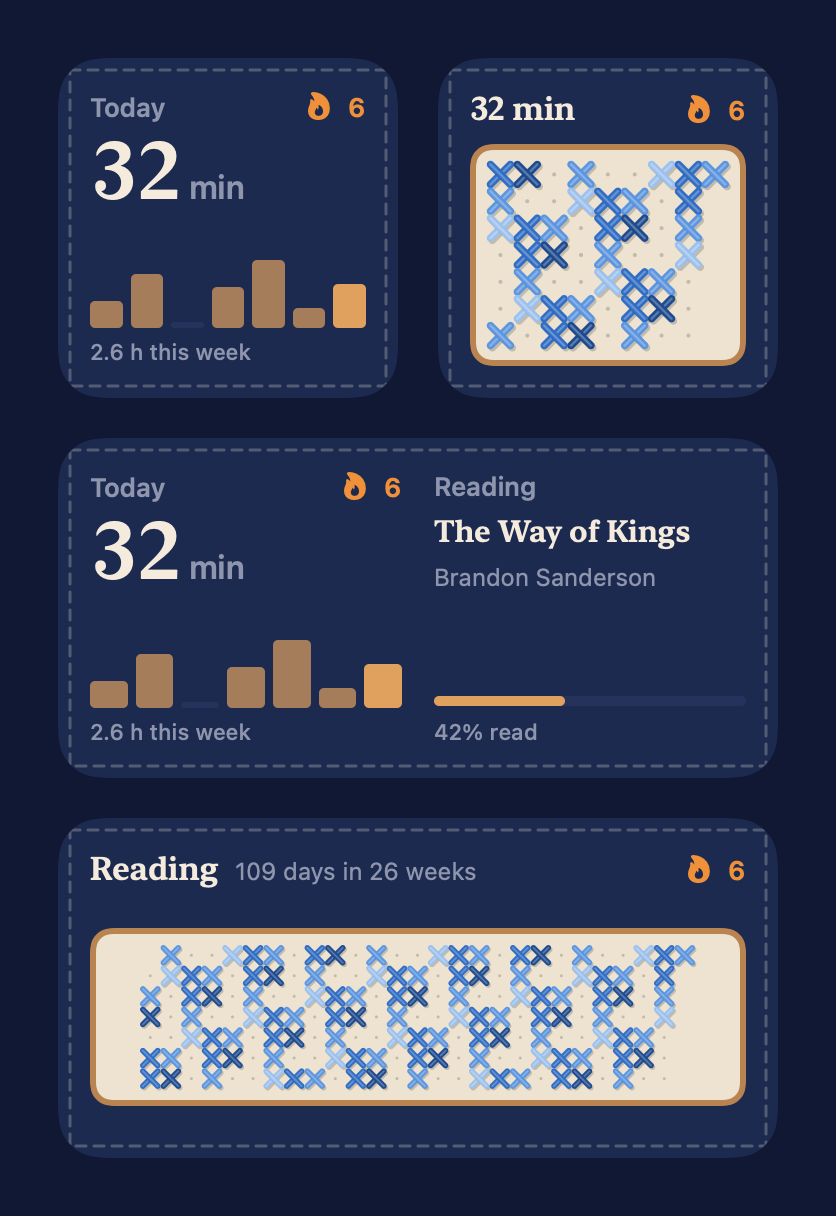
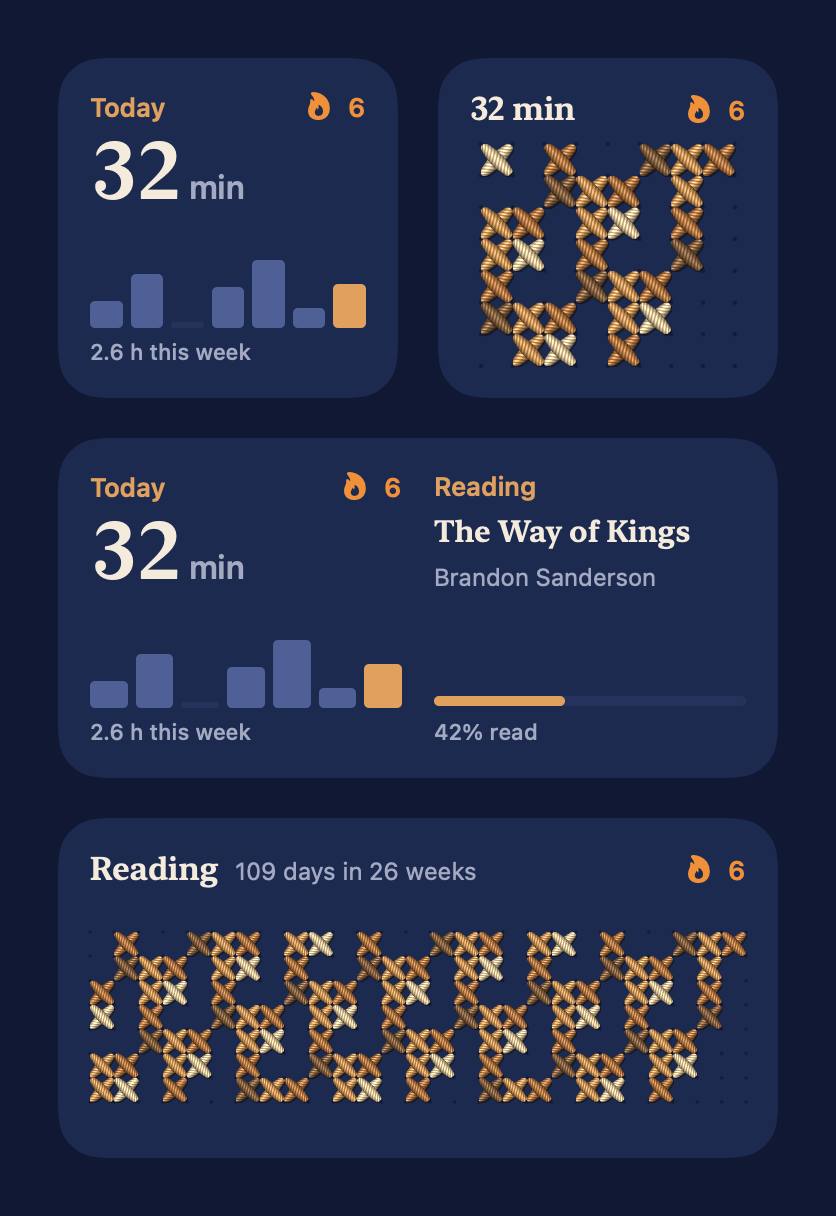
Widgets: real thread stitches on the cloth, less chrome
The calendar is now drawn with stitch images rendered by the landing page's
shader (one per reading level, tan to cream), stitched straight onto the night
blue cloth with the aida holes showing. The wooden frame, linen panel and
dashed border are gone, labels are tan, and earlier days' bars are a lighter
night blue instead of muddy tan.

diff --git a/ios/Widget/HeatmapWidget.swift b/ios/Widget/HeatmapWidget.swift
@@ -1,7 +1,7 @@
 import SwiftUI
 import WidgetKit
 
-/// Daily reading as cross stitch on linen: one column per week, Monday at the top.
+/// Daily reading as cross stitch: one column per week, Monday at the top.
 
 private func level(_ seconds: Int) -> Int {
     switch seconds {
@@ -24,24 +24,14 @@ private func weeks(_ days: [Int], ending today: Date = .now) -> [[Int?]] {
     return stride(from: 0, to: cells.count, by: 7).map { Array(cells[$0..<$0 + 7]) }
 }
 
-/// The calendar on a piece of linen in a thin wooden frame.
-struct Sampler: View {
-    let days: [Int]
-    var allWeeks = false
+/// Stitches rendered by the landing page's shader (Assets: Stitch1...4), one per reading level.
+/// Each image is the stitch plus a margin for its shadow, a sixth of the cell on every side.
+func stitchImage(_ level: Int) -> Image { Image("Stitch\(level)") }
+private let stitchMargin: CGFloat = 16.0 / 96.0
 
-    var body: some View {
-        HeatGrid(days: days, gap: 1, allWeeks: allWeeks)
-            .frame(maxWidth: .infinity)
-            .padding(6)
-            .background(Theme.linen, in: RoundedRectangle(cornerRadius: 8))
-            .padding(3)
-            .background(Theme.wood, in: RoundedRectangle(cornerRadius: 11))
-    }
-}
-
+/// The calendar stitched straight onto the cloth, cell against cell like real cross stitch.
 struct HeatGrid: View {
     let days: [Int]
-    var gap: CGFloat = 3
     /// Show every week, sized to the width; otherwise fill the height and show the weeks that fit.
     var allWeeks = false
 
@@ -50,53 +40,41 @@ struct HeatGrid: View {
         if allWeeks {
             let n = CGFloat(all.count)
             GeometryReader { geo in
-                grid(all, cell: (geo.size.width - gap * (n - 1)) / n)
+                grid(all, cell: min(geo.size.width / n, geo.size.height / 7))
+                    .frame(maxWidth: .infinity, maxHeight: .infinity)
             }
-            .aspectRatio((n * 10 + (n - 1) * gap) / (70 + 6 * gap), contentMode: .fit)
+            .aspectRatio(n / 7, contentMode: .fit)
         } else {
             GeometryReader { geo in
-                let cell = (geo.size.height - gap * 6) / 7
-                let fit = max(1, Int((geo.size.width + gap) / (cell + gap)))
+                let cell = geo.size.height / 7
+                let fit = max(1, Int(geo.size.width / cell))
                 grid(Array(all.suffix(fit)), cell: cell)
-                    .frame(maxWidth: .infinity, maxHeight: .infinity, alignment: .trailing)
+                    .frame(maxWidth: .infinity, maxHeight: .infinity)
             }
         }
     }
 
     private func grid(_ shown: [[Int?]], cell: CGFloat) -> some View {
-        let step = cell + gap
-        return Canvas { ctx, _ in
+        Canvas { ctx, _ in
+            let stitches = (1...4).map { ctx.resolve(stitchImage($0)) }
+            // the holes of the aida cloth, so empty days still read as cloth waiting for thread
+            for w in 0...shown.count {
+                for d in 0...7 {
+                    let r = cell * 0.07
+                    ctx.fill(Path(ellipseIn: CGRect(x: CGFloat(w) * cell - r, y: CGFloat(d) * cell - r, width: 2 * r, height: 2 * r)),
+                             with: .color(.black.opacity(0.3)))
+                }
+            }
             for (w, week) in shown.enumerated() {
                 for d in 0..<7 {
-                    guard let seconds = week[d] else { continue }
-                    let rect = CGRect(x: CGFloat(w) * step, y: CGFloat(d) * step, width: cell, height: cell)
-                    let l = level(seconds)
-                    if l == 0 {
-                        ctx.fill(Path(ellipseIn: rect.insetBy(dx: cell * 0.42, dy: cell * 0.42)), with: .color(.black.opacity(0.18)))
-                    } else {
-                        crossStitch(ctx, in: rect, color: Theme.threads[l])
-                    }
+                    guard let seconds = week[d], level(seconds) > 0 else { continue }
+                    let m = cell * stitchMargin
+                    ctx.draw(stitches[level(seconds) - 1],
+                             in: CGRect(x: CGFloat(w) * cell - m, y: CGFloat(d) * cell - m, width: cell + 2 * m, height: cell + 2 * m))
                 }
             }
         }
-        .frame(width: CGFloat(shown.count) * step - gap, height: 7 * step - gap)
-    }
-
-    /// Two legs of floss, the second crossing over the first, with a soft shadow and a sheen.
-    private func crossStitch(_ ctx: GraphicsContext, in r: CGRect, color: Color) {
-        let inset = r.width * 0.1, width = r.width * 0.3
-        let a = r.insetBy(dx: inset, dy: inset)
-        let legs = [(CGPoint(x: a.minX, y: a.maxY), CGPoint(x: a.maxX, y: a.minY)),
-                    (CGPoint(x: a.minX, y: a.minY), CGPoint(x: a.maxX, y: a.maxY))]
-        for (from, to) in legs {
-            var leg = Path()
-            leg.move(to: from)
-            leg.addLine(to: to)
-            let shadow = leg.offsetBy(dx: width * 0.25, dy: width * 0.3)
-            ctx.stroke(shadow, with: .color(.black.opacity(0.18)), style: StrokeStyle(lineWidth: width, lineCap: .round))
-            ctx.stroke(leg, with: .color(color), style: StrokeStyle(lineWidth: width, lineCap: .round))
-            ctx.stroke(leg, with: .color(.white.opacity(0.28)), style: StrokeStyle(lineWidth: width * 0.3, lineCap: .round))
-        }
+        .frame(width: CGFloat(shown.count) * cell, height: 7 * cell)
     }
 }
 
@@ -123,10 +101,10 @@ struct HeatmapView: View {
                     .foregroundStyle(s.streak > 0 ? Theme.flame : Theme.muted)
             }
             if family == .systemSmall {
-                Sampler(days: days)
+                HeatGrid(days: days)
             } else {
                 Spacer(minLength: 0)
-                Sampler(days: days, allWeeks: true)
+                HeatGrid(days: days, allWeeks: true)
                 Spacer(minLength: 0)
             }
             if family == .systemLarge {
@@ -136,7 +114,7 @@ struct HeatmapView: View {
                     stat(Format.durationText(s.month), "this month")
                 }
                 if let book = s.book {
-                    Divider().overlay(Theme.stitch)
+                    Divider().overlay(Theme.surface)
                     VStack(alignment: .leading, spacing: 6) {
                         HStack(alignment: .firstTextBaseline) {
                             Text(book.title).font(.system(size: 16, weight: .semibold, design: .serif)).lineLimit(1)
@@ -166,7 +144,7 @@ struct HeatmapWidget: Widget {
         StaticConfiguration(kind: "ReadingHeatmap", provider: Provider()) { entry in
             HeatmapView(entry: entry)
                 .foregroundStyle(Theme.text)
-                .containerBackground(for: .widget) { ClothBackground() }
+                .containerBackground(for: .widget) { Theme.cloth }
         }
         .configurationDisplayName("Reading calendar")
         .description("Every day you read, one cross stitch per day.")

diff --git a/ios/Widget/ReadingWidget.swift b/ios/Widget/ReadingWidget.swift
@@ -57,17 +57,6 @@ enum Cache {
 
 // MARK: - Pieces
 
-/// Night blue cloth with a running stitch just inside the edge, like a sewn on patch.
-struct ClothBackground: View {
-    var body: some View {
-        ZStack {
-            Theme.cloth
-            ContainerRelativeShape()
-                .inset(by: 6)
-                .stroke(Theme.stitch, style: Theme.runningStitch)
-        }
-    }
-}
 
 struct BigDuration: View {
     let seconds: Int
@@ -92,7 +81,7 @@ struct WeekBars: View {
         HStack(alignment: .bottom, spacing: 4) {
             ForEach(Array(values.enumerated()), id: \.offset) { index, value in
                 RoundedRectangle(cornerRadius: 2.5)
-                    .fill(value > 0 ? accent.opacity(index == values.count - 1 ? 1 : 0.7) : Theme.surface)
+                    .fill(index == values.count - 1 ? accent : value > 0 ? Color(hex: 0x4E6096) : Theme.surface)
                     .frame(maxWidth: .infinity)
                     .frame(height: max(3, CGFloat(value) / CGFloat(top) * 34))
             }
@@ -134,7 +123,7 @@ struct SmallView: View {
     var body: some View {
         VStack(alignment: .leading, spacing: 0) {
             HStack {
-                Text("Today").font(.system(size: 13, weight: .semibold)).foregroundStyle(muted)
+                Text("Today").font(.system(size: 13, weight: .semibold)).foregroundStyle(accent)
                 Spacer()
                 StreakLabel(streak: entry.snapshot.streak)
             }
@@ -157,7 +146,7 @@ struct MediumView: View {
             Link(destination: URL(string: "reading://")!) { SmallView(entry: entry) }
             VStack(alignment: .leading, spacing: 6) {
                 if let book = s.book {
-                    Text("Reading").font(.system(size: 13, weight: .semibold)).foregroundStyle(muted)
+                    Text("Reading").font(.system(size: 13, weight: .semibold)).foregroundStyle(accent)
                     Text(book.title)
                         .font(.system(size: 15, weight: .semibold, design: .serif))
                         .lineLimit(3)
@@ -167,7 +156,7 @@ struct MediumView: View {
                     Text("\(Int((book.progress * 100).rounded()))% read")
                         .font(.system(size: 11, weight: .medium)).foregroundStyle(muted)
                 } else {
-                    Text("This month").font(.system(size: 13, weight: .semibold)).foregroundStyle(muted)
+                    Text("This month").font(.system(size: 13, weight: .semibold)).foregroundStyle(accent)
                     BigDuration(seconds: s.month, size: 30)
                     Spacer()
                 }
@@ -236,7 +225,7 @@ struct ReadingWidget: Widget {
         StaticConfiguration(kind: "ReadingWidget", provider: Provider()) { entry in
             ReadingWidgetView(entry: entry)
                 .foregroundStyle(Theme.text)
-                .containerBackground(for: .widget) { ClothBackground() }
+                .containerBackground(for: .widget) { Theme.cloth }
         }
         .configurationDisplayName("Readstreak")
         .description("Today's reading time, streak and current book.")

diff --git a/ios/Shared/Theme.swift b/ios/Shared/Theme.swift
@@ -7,15 +7,11 @@ enum Theme {
     static let surface = Color(hex: 0x24325C)
     static let text = Color(hex: 0xF4EBDD)
     static let cream = Color(hex: 0xF8E4BF)
-    static let muted = Color(hex: 0x8E95AD)
+    static let muted = Color(hex: 0xA3AAC2)
     static let tan = Color(hex: 0xE0A15E)
     static let ink = Color(hex: 0x1C2A50)
     static let flame = Color(hex: 0xF0913A)
-    static let linen = Color(hex: 0xEDE3D0)
-    static let wood = Color(hex: 0xB9844F)
     static let stitch = Color(hex: 0xF4EBDD).opacity(0.26)
-    /// Blue floss for the calendar, light to deep; level 0 is an empty day.
-    static let threads: [Color] = [.clear, Color(hex: 0x9CC1EE), Color(hex: 0x5B95E0), Color(hex: 0x2F6CC4), Color(hex: 0x1D4A8F)]
     /// A running stitch, for dashed edges.
     static let runningStitch = StrokeStyle(lineWidth: 1.5, lineCap: .round, dash: [5, 4])
 }
